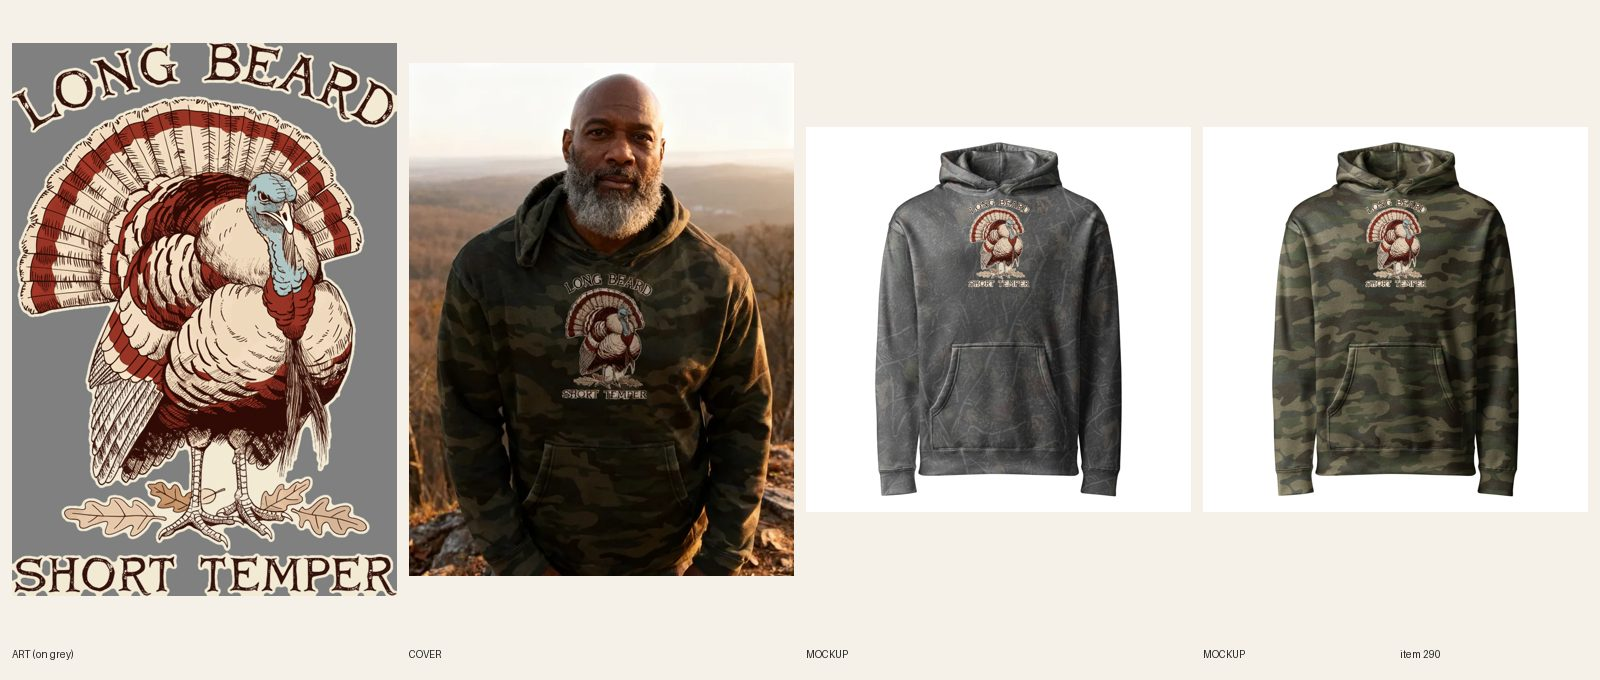
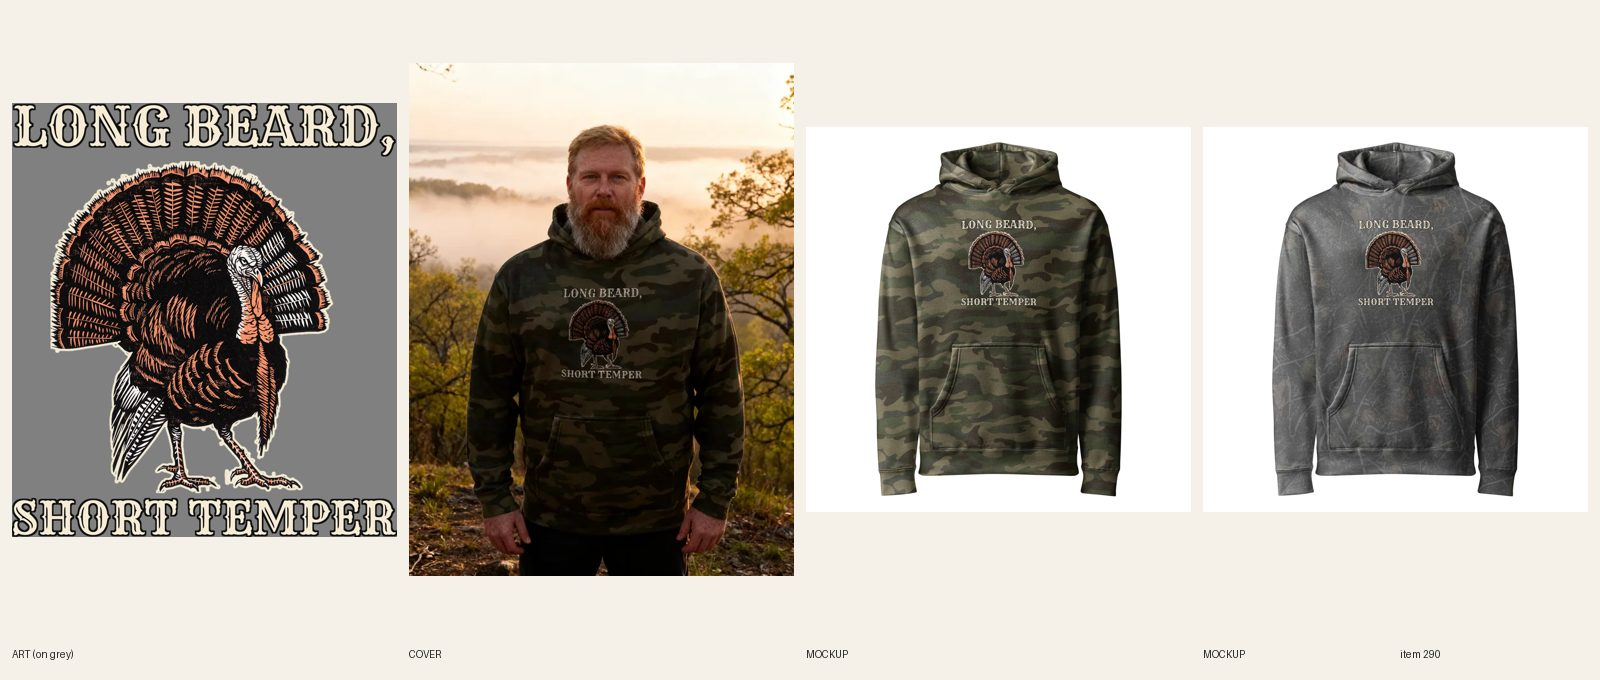
[B] review 290 camo redo 7 (woodcut turkey A+ print, lifestyle photos)

diff --git a/src/data/covers.ts b/src/data/covers.ts
@@ -309,7 +309,7 @@ export const covers: Record<string, { src: string; alt: string }> = {
   'womens-embroidered-purrsonal-space-cat-hoodie': { src: '/covers/womens-embroidered-purrsonal-space-cat-hoodie.webp', alt: 'Woman in her mid 20s with a short black bob in a Sand Purrsonal Space embroidered cat hoodie in a reading nook by a rainy window with a cat on the cushion beside her' },
   'mens-gym-sore-since-1987-oversized-hoodie': { src: '/covers/mens-gym-sore-since-1987-oversized-hoodie.webp', alt: 'Man in his mid 20s with a shaved head in a Navy Sore Since 1987 oversized gym hoodie in a busy weight room with a dumbbell rack behind him' },
   'mens-hunting-sit-wait-snack-camo-hoodie': { src: '/covers/mens-hunting-sit-wait-snack-camo-hoodie.webp', alt: 'Man in his mid 40s with a salt-and-pepper beard and a ball cap pushed back in a Forest Camo Sit Wait Snack hoodie on a deer camp cabin porch at dawn with a frosty field behind him' },
-  'mens-hunting-long-beard-short-temper-camo-hoodie': { src: '/covers/mens-hunting-long-beard-short-temper-camo-hoodie.webp', alt: 'Man in his early 50s with a bald head and full grey beard in a Forest Camo Long Beard Short Temper turkey hoodie on a hardwood ridge in early morning light' },
+  'mens-hunting-long-beard-short-temper-camo-hoodie': { src: '/covers/mens-hunting-long-beard-short-temper-camo-hoodie.webp', alt: 'Man in his late 40s with a thick ginger beard in a Forest Camo Long Beard Short Temper turkey hoodie on a hardwood ridge at sunrise' },
   'mens-hunting-im-not-yelling-im-bugling-camo-hoodie': { src: '/covers/mens-hunting-im-not-yelling-im-bugling-camo-hoodie.webp', alt: 'Man in his late 30s with a long black ponytail in a Forest Camo I\'m Not Yelling I\'m Bugling elk hoodie in a high mountain meadow at golden hour with aspens behind him' },
   'mens-hunting-fluent-in-honk-camo-hoodie': { src: '/covers/mens-hunting-fluent-in-honk-camo-hoodie.webp', alt: 'Man in his early 40s with short gray hair in a Duck Camo Fluent in Honk goose hoodie standing in a flooded cornfield at first light with Canada geese behind him' },
   'mens-hunting-fake-friends-duck-camo-hoodie': { src: '/covers/mens-hunting-fake-friends-duck-camo-hoodie.webp', alt: 'Man in his early 30s with a short fade and light beard in a Duck Camo Fake Friends hoodie in a duck blind in morning fog with the small decoy print on his left chest' },

diff --git a/docs/intake-log.md b/docs/intake-log.md
@@ -1,4 +1,5 @@
-RUNNING lane B since 2026-10-25 13:29 UTC
+RUNNING lane B since 2026-10-25 13:35 UTC
+2026-10-25 13:35 UTC — [B] REVIEW #290 Men's Hunting – Long Beard Short Temper Camo Hoodie (camo-redo 7 of 27, S9 on A+, FW1500 TOP400, 14/14 on 1094531100, headline 2985 / punch 3006 px = 100%, subject 80%, Rye; 2 lifestyle photos). fal ~$0.26.
 2026-10-24 23:44 UTC — [H] Helper run: Telegram inbox empty (getUpdates returned 0 updates; nothing to consume, no pause, resume or TikTok links). Shopify: 0 orders since 2026-10-24 14:50 UTC, so no order alert and no Printful hold check. Audit 726 live products: 7 ERRORs (same cover and garment-grid visual errors already noted, left for the director; noted again in docs/inbox.md), 155 warnings left alone; no scripted fixes; committed docs/cohesion-audit.md and .json. Price errors: none. Category check: 0 products without a Shopify category (no mutation). Site freshness: womens-cat-clocked-it-said-nothing-embroidered-zip-hoodie, mens-gym-squire-spot-me-embroidered-zip-hoodie and mens-gym-twelve-labors-zero-cardio-embroidered-zip-hoodie all 200 at /products/; homepage 200. Stuck work: no BUILDING items; no lane lock held. Daily summary not due (sent at the 14:50 run; next due on the first run after 12:00 UTC tomorrow). Lock released.
 2026-10-24 23:13 UTC — [D] Director run: inbox nothing new (still waiting on Sam for the #457/#458 Hanukkah line). Reviewed 2 camo redo sheets: #300 Doe Not Disturb LIVE (in place, already ACTIVE, not a new product; S5 doe on A+ reads on both camos, 2 lifestyle photos, audit --handle PASS 0 warn); #233 Pro Tree Sitter REDO (R5.3.4/R5.3.7 stray deer-head emblem behind the stand, R5.3.8 pure-white gaps in the stand frame, clown-orange nose, no lifestyle photos). Recurring (3rd B3 item with every photo garbled: #303, #289, #233): B3 photo line added to docs/backlog/camo-redo.md. No new LIVE products: Oct 24 Chicago cap (6) reached at the 14:41 run. No new briefs: 56 READY, over the 6-12 target. No Telegram (not a digest run; nothing needs Sam). Lock released.
 2026-10-24 22:07 UTC — [B] Builder run end: 2 items, camo redo #5 #300 (sleeping doe, A+, 2 lifestyle photos) and #6 #233 (varsity tree-sitter mascot, B3, photos garbled so flats kept; both ACTIVE, director to confirm). New products today: 0 of 6. fal ~$0.52. Lock released.

diff --git a/docs/pipeline/290-camo-hoodie-long-beard-short-temper.md b/docs/pipeline/290-camo-hoodie-long-beard-short-temper.md
@@ -26,3 +26,4 @@ handle: mens-hunting-long-beard-short-temper-camo-hoodie
 - 2026-10-17 01:15 UTC director: LIVE. Reviewed docs/review/290.jpg + Shopify copy; set ACTIVE, published to Online Store, Headless and Google & YouTube; cohesion-audit --handle PASS.
 - 2026-10-22 22:00 UTC Claude (Sam): REDO, camo redo #7 of 27, style S9. New art in its own style, no box, no condensed sans, placement per docs/backlog/camo-redo.md (never TOP 0). Redo in place.
 - 2026-10-22 22:40 UTC Claude (Sam): placement A/B test, this item is A+ (center 10 in, tag placement-a).
+- 2026-10-25 13:35 UTC [B]: camo-redo #7 (S9 woodcut on A+, tag placement-a), in place on product 15362680881456. New art: 1 Recraft call (two-ink black and burnt-orange linocut tom, no lettering), thin cream halo, spec removed; lines LONG BEARD, / SHORT TEMPER set in Rye (cream, dark keyline; faces of last 5 lane B builds: Caveat Brush, Cinzel, Bowlby, Fraunces, Playfair; Rye not among them). 7h: headline 2985 px / punch 3006 px (100%). Subject 2400 of 3000 px = 80% of lockup width, type 722 of 3378 px. Print 3000 x 3378, FW1500 TOP400 (height 1689, TOP+h 2089 <= 2100). R7.7: Darkwood Tree Camo + Forest Camo 14/14 on file 1094531100, back logo 1080398177. Front mockups replaced in place (phone-size read OK on both camos). Copy, SEO, FAQ (5 questions) rewritten, placement-a tag added; title unchanged (same line). Lifestyle: registry 1151, 2 seedream calls both kept (ridge at sunrise cover, tailgate at dusk, text legible at 200%, no hand or hair on print); images 1-2; covers.ts alt updated. Audit PASS 0 warn. Sheet docs/review/290.jpg. Product is ACTIVE: director to confirm. fal ~$0.26.

diff --git a/docs/model-registry.md b/docs/model-registry.md
@@ -943,3 +943,4 @@ Rows 11–43 were re-pointed on 2026-10-08 when the briefs were rewritten from d
 | 1148 | Black man, early 30s, short fade, light beard, athletic build | USED 2026-10-24 — #289 camo redo cover (seedream call 1 of the photos-only REDO)
 | 1149 | Chinese-American woman, mid 30s, shoulder-length wavy black hair with a few grey strands, no hat, medium build | USED 2026-10-24 — #300 camo redo cover + second photo |
 | 1150 | Vietnamese-American man, late 30s, short black hair with a light goatee, lean build | USED 2026-10-24 — #233 camo redo cover + second photo |
+| 1151 | White man, late 40s, short sandy hair, thick ginger beard going grey, broad build, no hat | USED 2026-10-25 — #290 camo redo cover + second photo |
